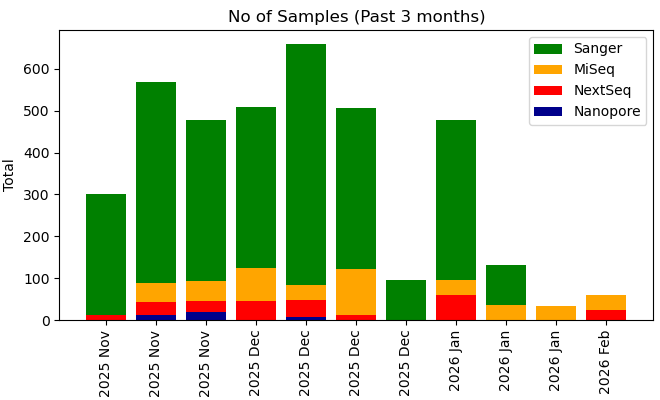
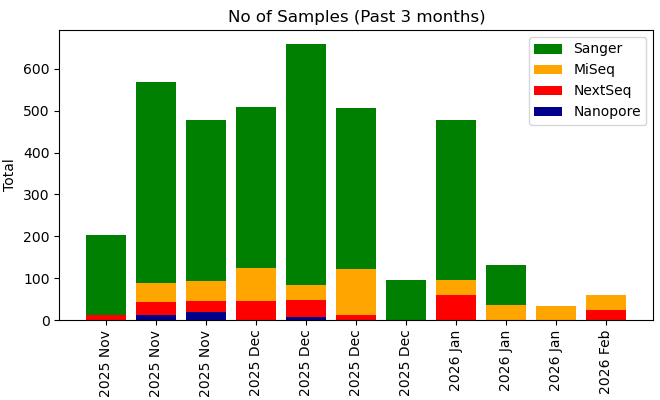
Your commit message here

Changed region(s): [[0.1212, 0.48, 0.2121, 0.6]]

diff --git a/krona/cgs.html b/krona/cgs.html
@@ -52,8 +52,8 @@ body {
   flex-direction: column;
 }
 </style>
-<H1>Genomics Facility Status: 07:00:14, 06/02/2026</H1>
-<marquee behavior="scroll" scrollamount="20" direction="left" bgcolor="lightgrey">CAGCGACGAGCACGAGAGCGGTCAGTAGCAATCCAAACTTTGTTACTCGTCAGAAAATCGAAATCATCTTCGGTTAAATCCAAAACGGCAGAAGCCTGAATGAGCTTAATAGAGGCCAAAGCGGTCTGGAAACGTACGGATTGTTCAGTAACTTGACTCATGATTTCTTACCTATTAGTGGTTGAACAGCATCGGACTCAGATAGTAATCCACGCTCTTTTAAAATGTCAACAAGAGAATC</marquee>
+<H1>Genomics Facility Status: 07:00:10, 07/02/2026</H1>
+<marquee behavior="scroll" scrollamount="20" direction="left" bgcolor="lightgrey">AATTGTTCGCGTTTACCTTGCGTGTACGCGCAGGAAACACTGACGTTCTTACTGACGCAGCAGAAAACGTGCGTCAAAAATTACGTGCAGAAGGAGTGATGTAATGTCTAAAGGTAAAAAACGTTCTGGCGCTCGCCCTGGTCGTCCGCAGCCGTTGCGAGGTACTAAAGGCAAGCGTAAAGGCGCTCGTCTTTGGTATGTAGGTGGTCAACAATTTTAATTGCAGGGGCTTCGGCCCCTTACTTGAGGAT</marquee>
 <TABLE BORDER=0><TR><TD><TABLE class="styled-table"><H3>GigaBases Sequenced</H3>
 <TR><TD><b>Platform</b></TD><TD><b>Week</b></TD><TD><b>Month</b></TD><TD><b>Year</b></TD><TD><b>Total</b></TD></TR><TR><TD>Illumina MiSeq</TD><TD>8.16</TD><TD>29.25</TD><TD>345.47</TD><TD>447.39</TD></TR><TR><TD>Illumina NextSeq</TD><TD>50.42</TD><TD>64.28</TD><TD>5136.41</TD><TD>6064.36</TD></TR><TR><TD>Nanopore PromethION</TD><TD>0.0</TD><TD>0.0</TD><TD>6885.0</TD><TD>10521.51</TD></TR><TR><TD>Sanger</TD><TD>0.0</TD><TD>0.0</TD><TD>0.02</TD><TD>0.04</TD></TR></TABLE></TD><TD><IMG SRC="fig1.png"><IMG SRC="fig2.png"></TD></TR><TR><TD><H3>No. Samples (No. Experiments)</H3>
-<TABLE class="styled-table"><TR><TD><b>Platform</b></TD><TD><b>Week</b></TD><TD><b>Month</b></TD><TD><b>Year</b></TD><TD><b>Total</b></TD></TR><TR><TD>Illumina MiSeq</TD><TD>36 (1)</TD><TD>142 (6)</TD><TD>1540 (67)</TD><TD>2071 (81)</TD></TR><TR><TD>Illumina NextSeq</TD><TD>24 (1)</TD><TD>83 (2)</TD><TD>1476 (66)</TD><TD>1901 (76)</TD></TR><TR><TD>Nanopore PromethION</TD><TD>0 (0)</TD><TD>0 (0)</TD><TD>431 (147)</TD><TD>797 (273)</TD></TR><TR><TD>Sanger</TD><TD>0 (0)</TD><TD>480 (480)</TD><TD>18816 (18816)</TD><TD>36839 (36839)</TD></TR></TABLE></TD><TD><IMG SRC="fig4.png"></TD></TR></TABLE></HTML>
+<TABLE class="styled-table"><TR><TD><b>Platform</b></TD><TD><b>Week</b></TD><TD><b>Month</b></TD><TD><b>Year</b></TD><TD><b>Total</b></TD></TR><TR><TD>Illumina MiSeq</TD><TD>36 (1)</TD><TD>142 (6)</TD><TD>1540 (67)</TD><TD>2071 (81)</TD></TR><TR><TD>Illumina NextSeq</TD><TD>24 (1)</TD><TD>83 (2)</TD><TD>1476 (66)</TD><TD>1901 (76)</TD></TR><TR><TD>Nanopore PromethION</TD><TD>0 (0)</TD><TD>0 (0)</TD><TD>431 (147)</TD><TD>797 (273)</TD></TR><TR><TD>Sanger</TD><TD>0 (0)</TD><TD>480 (480)</TD><TD>18720 (18720)</TD><TD>36839 (36839)</TD></TR></TABLE></TD><TD><IMG SRC="fig4.png"></TD></TR></TABLE></HTML>
